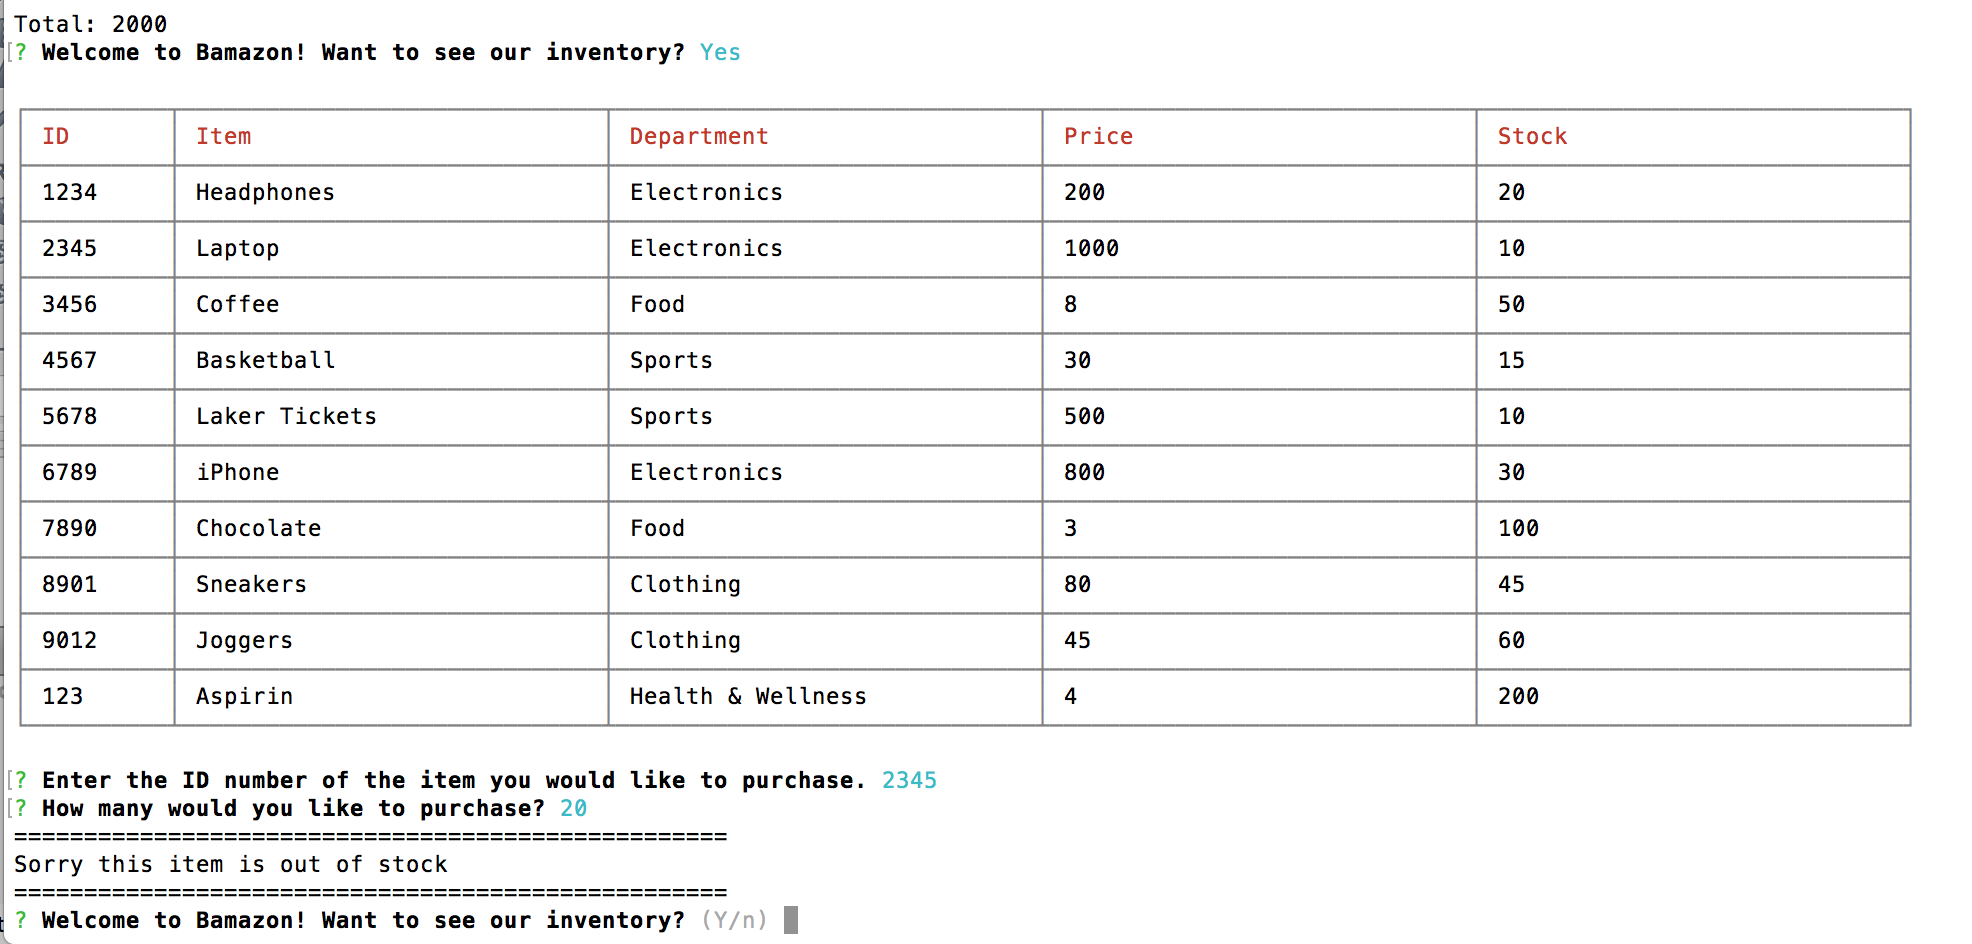
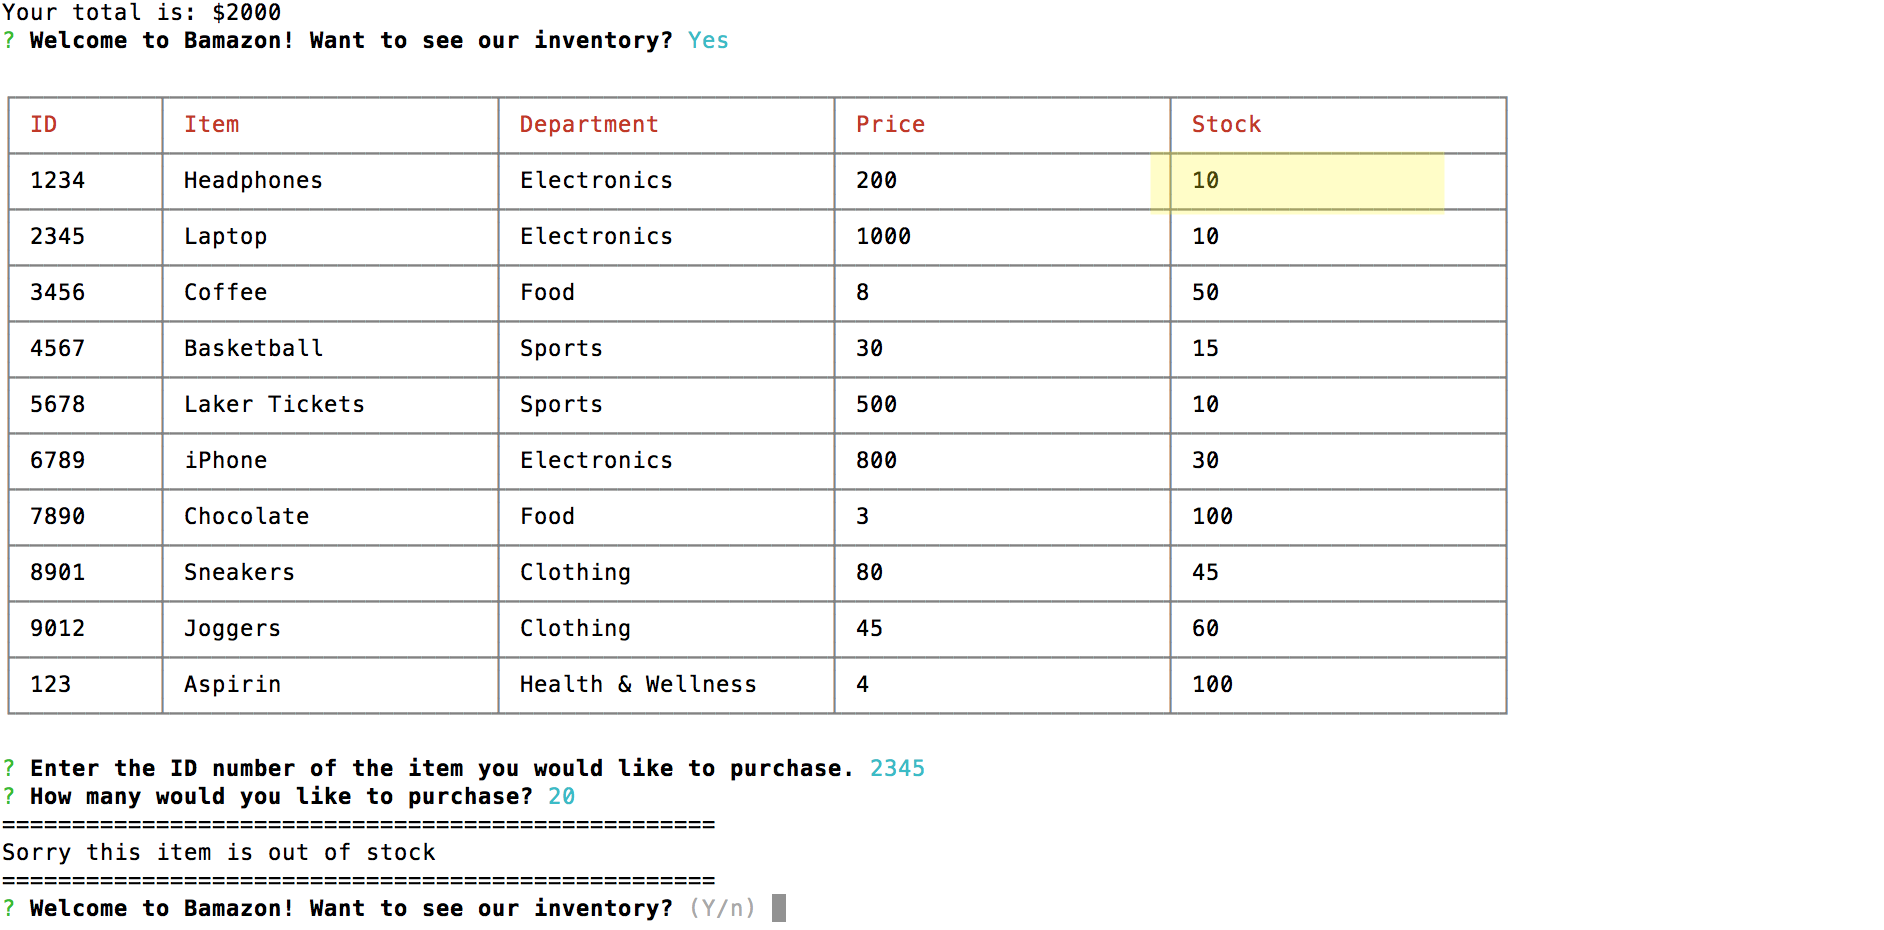
update

Changed region(s): [[0.0, 0.0935, 0.9851, 0.7796], [0.0, 0.8108, 0.4926, 1.0], [0.0, 0.0, 0.4002, 0.0624]]

diff --git a/bamazonCustomer.js b/bamazonCustomer.js
@@ -2,6 +2,8 @@ var mysql = require("mysql");
 var inquirer = require("inquirer");
 var Table = require('cli-table');
 
+var currentQuantity = "";
+var currentProduct = "";
 
 var connection = mysql.createConnection({
     host: "localhost",
@@ -30,7 +32,7 @@ function startPrompt() {
         if (user.confirm === true) {
             options();
         } else {
-            console.log("Thank you! Come back soon!");
+            console.log("No worries. Come back soon!");
         }
     });
 }
@@ -39,7 +41,7 @@ function options() {
 
     var table = new Table({
         head: ['ID', 'Item', 'Department', 'Price', 'Stock'],
-        colWidths: [10, 30, 30, 30, 30]
+        colWidths: [10, 23, 23, 23, 23]
     });
 
     listOptions();
@@ -103,13 +105,26 @@ function goShopping() {
                     console.log("Price: " + res[i].price);
                     console.log("Quantity: " + answer.inputNumber);
                     console.log("----------------");
-                    console.log("Total: " + res[i].price * answer.inputNumber);
-                   startPrompt();
+                    console.log("Your total is: $" + res[i].price * answer.inputNumber);
+
+                    currentQuantity = (res[i].stock_quantity) - (answer.inputNumber);
+                    currentProduct = res[i].product_name;
+                    const query = connection.query("UPDATE products SET ? WHERE ?", [{
+                            stock_quantity: currentQuantity
+                        },
+                        {
+                            product_name: currentProduct
+                        }
+                    ])
+                    startPrompt();
                 }
             }
         });
     });
-}
+    
+    }
+
+
 
 
  

diff --git a/README.md b/README.md
@@ -13,6 +13,6 @@ This is a command line application created to mimic and Amazon-like storefront f
 
 <img src="https://github.com/randiprince3/bamazon/blob/master/images/Bamzon_InStock.png?raw=true" width="75%" height="75%">
 
-<img src="https://github.com/randiprince3/bamazon/blob/master/images/Bamazon_OutOfStock.png?raw=true" width="75%" height="75%">
+
 
 
